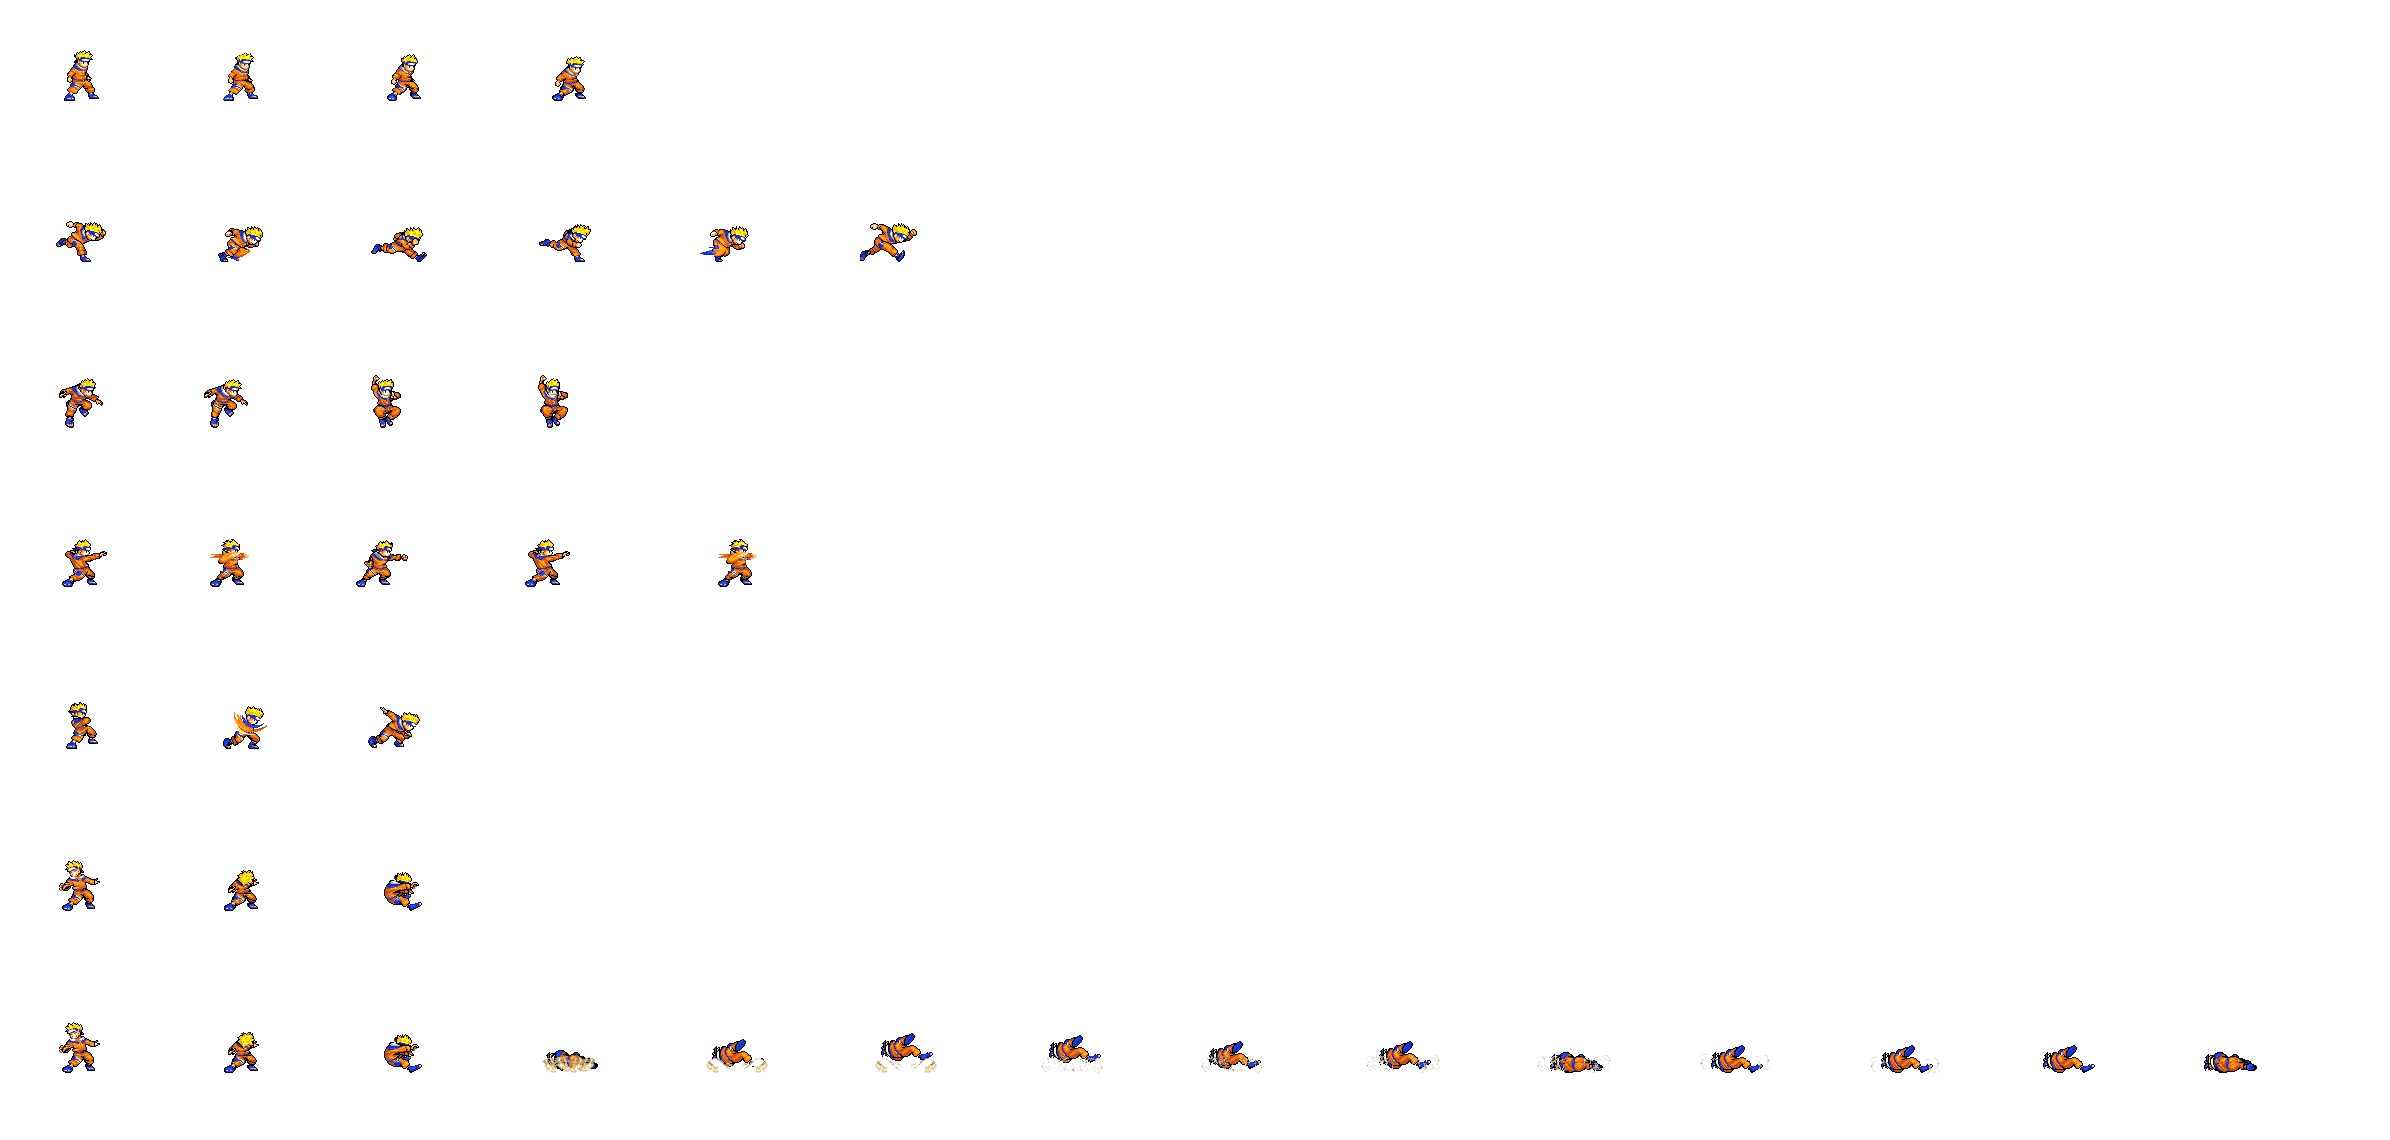
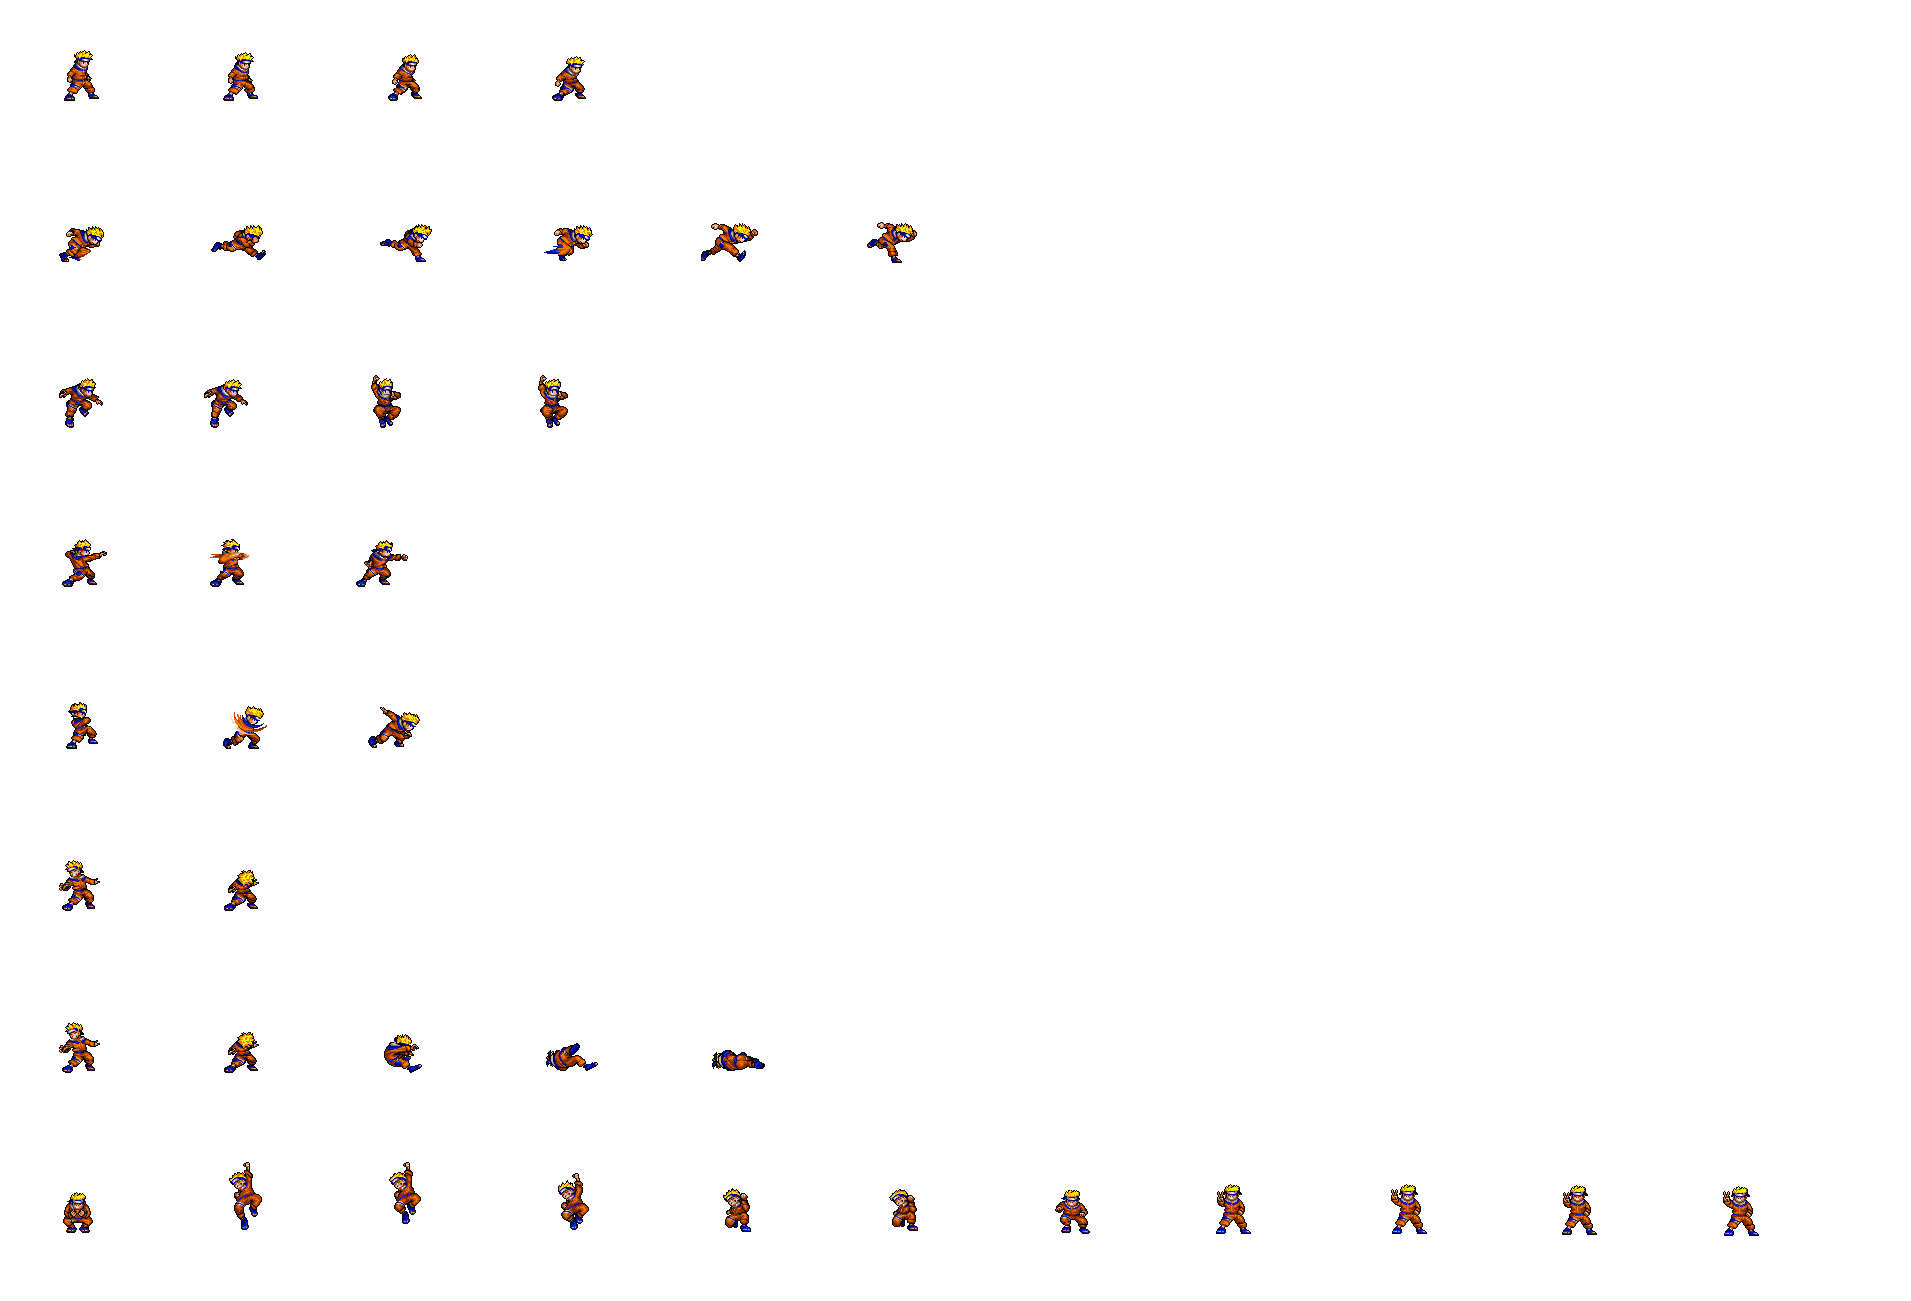
adding winning animation

diff --git a/fighter.py b/fighter.py
@@ -13,7 +13,7 @@ class Fighter():
         self.data = character_data[char_id]
 
         self.alive = True
-        self.action = 0  # 0=idle, 1=run, 2=jump, 3=punch, 4=throwing, 5=hit, 6=death
+        self.action = 0  # 0=idle, 1=run, 2=jump, 3=phyical(punch,kick), 4=throwing, 5=hit, 6=death, 7=winning
         self.attack_cooldown = 0
         self.attacking = False
         self.attack_type = 0
@@ -38,7 +38,6 @@ class Fighter():
         self.running = False
         self.update_time = pygame.time.get_ticks()
         self.vel_y = 0  # y velocity
-
 
 
     def load_images(self, sprite_sheet, animation_steps):
@@ -107,8 +106,6 @@ class Fighter():
                         self.attack_type = 2
                     self.attack(surface, target, kunai_img)
 
-
-
         #Apply gravity
         self.vel_y += GRAVITY
         dy += self.vel_y
@@ -143,20 +140,25 @@ class Fighter():
         if self.health <= 0:
             self.health = 0
             self.alive = False
-            self.update_action(6) #death
-        elif self.hit == True:
-            self.update_action(5) #hit
-        elif self.attacking == True:
+            self.update_action(6)  # death
+        elif self.hit:
+            self.update_action(5)  # hit
+        elif self.attacking:
             if self.attack_type == 1:
-                self.update_action(3) #punch
+                self.update_action(3)  # punch
             elif self.attack_type == 2:
-                self.update_action(4) #throwing
-        elif self.jump == True:
-            self.update_action(2) #jumping
-        elif self.running == True:
-            self.update_action(1) #running
+                self.update_action(4)  # throw
+        elif self.jump:
+            self.update_action(2)  # jump
+        elif self.running:
+            self.update_action(1)  # run
         else:
-            self.update_action(0) #idle
+            # default to idle unless round_over happened
+            if getattr(self, "is_winner", False):
+                self.update_action(7)  # win pose
+            else:
+                self.update_action(0)  # idle
+
 
         animation_cooldown = 110 #miliseconds
         self.image = self.animation_list[self.action][self.frame_index]

diff --git a/main.py b/main.py
@@ -107,10 +107,12 @@ while run:
     if round_over == False:
         if fighter_1.alive == False: #If player 1 dies
             score[1] += 1 #Player 2 points increase
+            fighter_2.is_winner = True   # ✅ Player 2 victory pose
             round_over = True
             round_over_time = pygame.time.get_ticks()
         elif fighter_2.alive == False: #If player 2 dies
             score[0] += 1 #Player 1 points increase
+            fighter_1.is_winner = True   # ✅ Player 1 victory pose
             round_over = True
             round_over_time = pygame.time.get_ticks()
     else:
